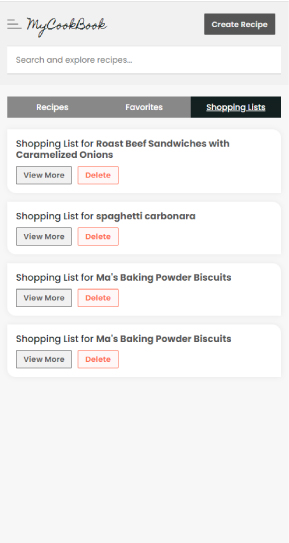
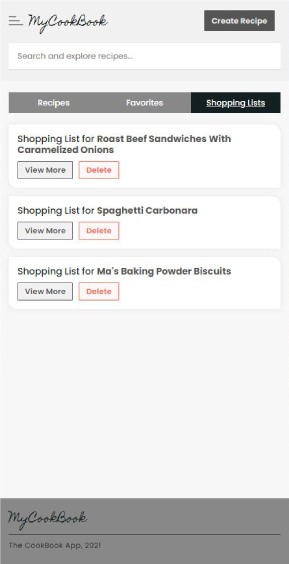
Update readme and css styles from shopping list

diff --git a/client/components/ShoppingLists/ShoppingLists.module.css b/client/components/ShoppingLists/ShoppingLists.module.css
@@ -14,6 +14,7 @@
   font-weight: 700;
   color: var(--color-accent);
   text-decoration: none;
+  text-transform: capitalize;
 }
 
 .shopList__card h3 a:hover {

diff --git a/README.md b/README.md
@@ -6,12 +6,12 @@ A simple, straightforward, and easy-to-use platform where users can create/read/
 
 #### Technologies and third-party services used:
 
-**API/Server:** NodeJS, ExpressJS
-**Auth:** JWT, PassportJS
-**Assets manager:** Cloudinary
-**Databases:** MongoDB Atlas, Mongoose
-**FrontEnd:** NextJS, React
-**CSS:** Bootstrap, CSS Modules, Downshift library
+- **API/Server:** NodeJS, ExpressJS
+- **Auth:** JWT, PassportJS
+- **Assets manager:** Cloudinary
+- **Databases:** MongoDB Atlas, Mongoose
+- **FrontEnd:** NextJS, React
+- **CSS:** Bootstrap, CSS Modules, Downshift library
 
 #### Index and Login pages:
 
@@ -21,9 +21,13 @@ A simple, straightforward, and easy-to-use platform where users can create/read/
 
 ![search-feature](https://github.com/tatsOre/cookbook/blob/master/client/public/readme_assets/10_Search_Bar.jpg "Search Recipes") ![recipe-post](https://github.com/tatsOre/cookbook/blob/master/client/public/readme_assets/03_Recipe_Post.jpg "Recipe Post Page")
 
-#### Cooking Mode (Fullscreen view):
+#### Cooking Mode (Fullscreen view) and User Menu:
 
-![cook-mode](https://github.com/tatsOre/cookbook/blob/master/client/public/readme_assets/04_Cook_Mode.jpg "Cook Mode")
+![cook-mode](https://github.com/tatsOre/cookbook/blob/master/client/public/readme_assets/04_Cook_Mode.jpg "Cook Mode") ![user-menu](https://github.com/tatsOre/cookbook/blob/master/client/public/readme_assets/06_Menu_Mobile.jpg "User Menu")
+
+#### Save Grocery Lists and User Dashboard (Recipes, Favorites and Shopping Lists with contextual search):
+
+![save-lists](https://github.com/tatsOre/cookbook/blob/master/client/public/readme_assets/12_Create_ShopLists.jpg "Save Shopping Lists") ![user-dashboard](https://github.com/tatsOre/cookbook/blob/master/client/public/readme_assets/09_User_Dashboard_ShopLists.jpg "User Dashboard")
 
 #### Create Recipes. Step One and Step Two:
 
